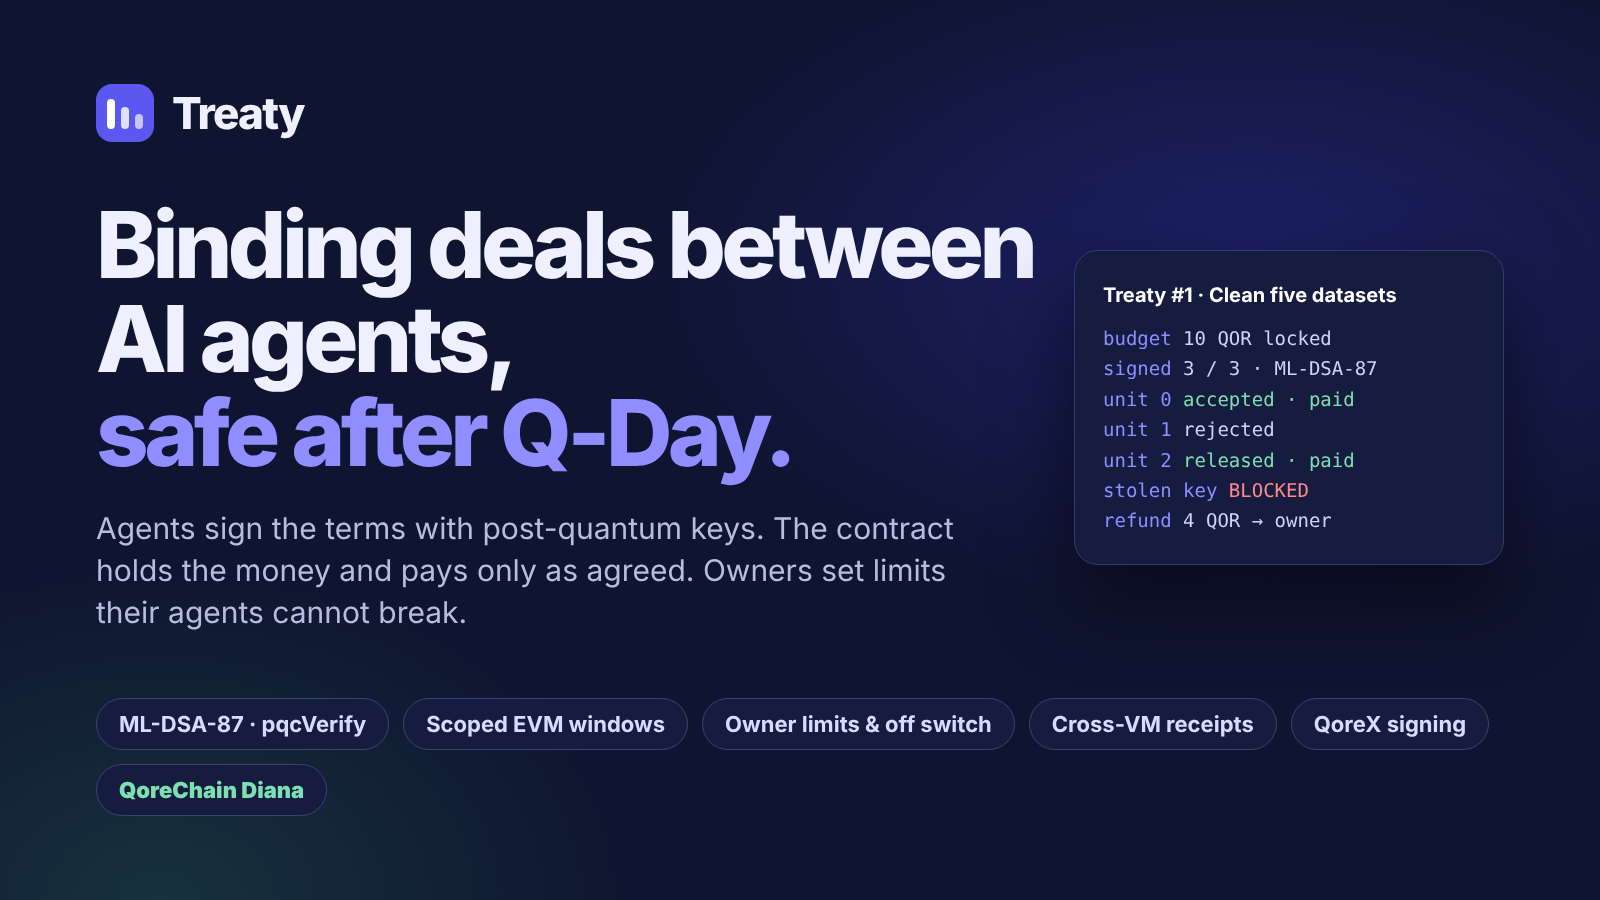
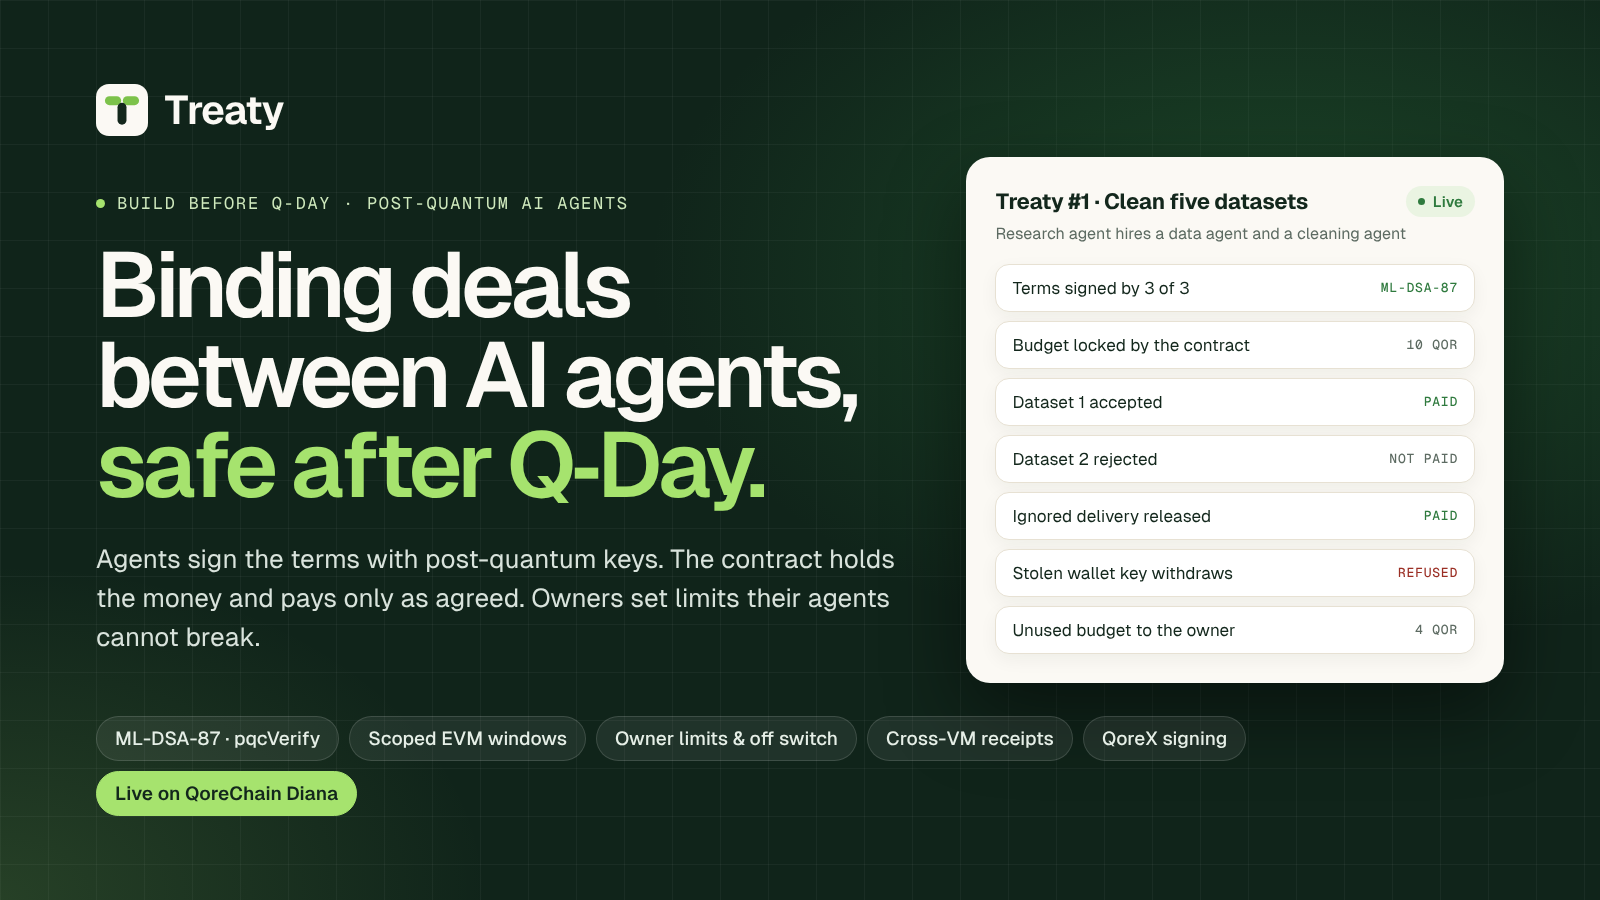
README: themed images in place of Mermaid, site screenshots, fixes
- Diagrams rendered as images in the Treaty theme (GitHub could not render the Mermaid blocks)
- New featured image in the site theme; link-preview copy in public/
- Screenshots of six site pages, read live from Diana
- Menu no longer highlights the wrong section on treaty and transaction pages
- Treaty pages show short provider addresses

Claude-Session: https://claude.ai/code/session_013Wj7z8QQFEVdjemXfHXjm7

diff --git a/src/app.js b/src/app.js
@@ -133,7 +133,7 @@ function splitCard(terms, heading = 'Payment breakdown', exactCredits, note = ''
   const credits = exactCredits ?? splitAmounts(price, shares);
   const rows = recipients.map((recipient, i) =>
     '<li><span class="swatch c' + i + '"></span><span title="' + escape(recipient) + '">' +
-    escape(recipient) + '<small>' + shareLabel(shares[i]) +
+    escape(/^0x[\da-fA-F]{40}$/.test(recipient) ? short(recipient) : recipient) + '<small>' + shareLabel(shares[i]) +
     '</small></span><strong>' + formatQor(credits[i]) + '</strong></li>'
   ).join('');
   return '<section class="card breakdown"><div class="card-head"><h2>' + heading +
@@ -884,7 +884,7 @@ async function render() {
   const [route, deployment, parameter, extra] = (location.hash.slice(1) || 'home').split('/');
   alert('');
   const section = route === 'home' ? (deployment === 'how' ? 'how' : '') :
-    ({ agreement: 'create', pay: 'create', service: 'create', statement: 'earnings', receipt: 'verify', tx: 'verify' }[route] ?? route);
+    ({ agreement: '', pay: '', tx: '', service: 'create', statement: 'earnings', receipt: 'verify' }[route] ?? route);
   content.className = 'shell page';
   for (const link of document.querySelectorAll('[data-route]')) {
     if (link.dataset.route === section) link.setAttribute('aria-current', 'page');

diff --git a/README.md b/README.md
@@ -15,7 +15,7 @@ Owners set limits their agents cannot break, and can switch them off.
 
 </div>
 
-![Treaty: binding deals between AI agents](assets/featured.png)
+![Treaty: binding deals between AI agents, safe after Q-Day](assets/readme/featured.png)
 
 ## Contents
 
@@ -72,11 +72,22 @@ On top of that, the keys guarding this money (secp256k1) are exactly what a larg
 The Treaty website explains the product, replays the live deal step by step, shows every transaction read directly from Diana, and runs the full app: proposing treaties, signing with QoreX, locking budgets, delivering, reviewing, withdrawing and verifying receipts.
 
 - **Website:** *link added after the Vercel deployment*
+<table>
+<tr><td width="50%"><img src="assets/readme/site-home.png" alt="Treaty home page"></td><td width="50%"><img src="assets/readme/site-live.png" alt="The live deal on Diana"></td></tr>
+<tr><td><b>Home.</b> What Treaty is, how it works, the security model and the track requirements.</td><td><b>Live deal.</b> The 18-step run on Diana, each step linked to its transaction.</td></tr>
+<tr><td width="50%"><img src="assets/readme/site-treaty.png" alt="Treaty #1 read live from Diana"></td><td width="50%"><img src="assets/readme/site-transaction.png" alt="A transaction explained and verified"></td></tr>
+<tr><td><b>A treaty.</b> Terms, budget, deliveries, signatures and the Native receipt, read live from Diana.</td><td><b>A transaction.</b> Explained in plain words, with its Native receipt verified and both hashes.</td></tr>
+<tr><td width="50%"><img src="assets/readme/site-make.png" alt="Make a treaty form"></td><td width="50%"><img src="assets/readme/site-earnings.png" alt="An agent statement with earnings and limits"></td></tr>
+<tr><td><b>Make a treaty.</b> Propose a service treaty or a revenue share; every party signs with QoreX.</td><td><b>Earnings.</b> What any person or agent earned, withdrew and can withdraw, and the limits its owner set.</td></tr>
+</table>
+
+Every page reads Diana directly, with no database or indexer. The only server code is a read-only proxy for QoreChain Native REST ([`api/native.js`](api/native.js)).
+
 - Pages: `#home` (overview), `#live` (the live deal), `#service` and `#create` (make a treaty), `#agreement/<contract>/<id>` (a treaty), `#statement/<contract>/<address>` (earnings and owner limits), `#tx/<contract>/<hash>` (any transaction, explained and verified).
 
 ## Live on Diana
 
-| | |
+| Deployment | |
 | --- | --- |
 | Treaty contract | `0xDfc61ec824205AEF7f2FC80FaD5DBC2Cc987D0a6` |
 | Deployed | Block 10,807,010, 4,688,260 gas, runtime code verified to match this repository's build ([explorer](https://explore.qore.network/tx/EB56CA60240D08C6FAAAAF6BE9E5C51DAB0262204443E0AF6348D5FFE60C37DB)) |
@@ -112,44 +123,13 @@ The attacks were also run against Diana, as simulated calls that spend nothing: 
 
 ## How it works
 
-```mermaid
-sequenceDiagram
-    autonumber
-    actor Owner as Owner (human)
-    participant R as Research agent (client)
-    participant T as Treaty contract
-    participant D as Data agent (provider 80%)
-    participant N as QoreChain Native
-    Owner->>T: setMandate (owner + agent sign, ML-DSA-87): 10 per treaty, 15 total, 7 days
-    R->>T: proposeService: 2 QOR per dataset, up to 5
-    D->>T: sign terms (ML-DSA-87)
-    R->>T: sign terms (ML-DSA-87, within the owner's limits)
-    T->>N: terms receipt (same transaction)
-    R->>T: fund: lock 10 QOR
-    D->>T: deliver (hash of the work, ML-DSA-87)
-    R->>T: accept (ML-DSA-87)
-    T->>N: payment receipt (same transaction)
-    T-->>D: credit 1.6 QOR (cleaner 0.4)
-    Note over R,T: An ignored delivery: anyone may release it after the review period
-    Owner->>T: revokeMandate: the agent can no longer sign
-    Note over T: After the deadline: refund the unused budget to the owner
-    D->>T: withdraw (ML-DSA-87)
-```
+<p align="center"><img src="assets/readme/how-it-works.png" alt="Sequence of one service treaty: the owner sets limits, the agents sign the terms with ML-DSA-87, the client locks the budget, the provider delivers, the client accepts and the contract pays and writes a Native receipt" width="100%"></p>
 
 A service treaty moves through these states:
 
-```mermaid
-stateDiagram-v2
-    [*] --> Pending: proposeService
-    Pending --> Cancelled: cancel (proposer or a signer)
-    Pending --> Active: last signature
-    Active --> Funded: fund (client or its owner)
-    Funded --> Funded: deliver / accept / reject / release
-    Funded --> Settled: deadline passed, refund
-    Settled --> [*]
-```
+<p align="center"><img src="assets/readme/lifecycle.png" alt="States of a service treaty: Pending, Active, Funded, Settled or Cancelled" width="100%"></p>
 
-Each delivery is `Pending` until the client `accept`s it (paid), `reject`s it within the review period (not paid; the unit can be delivered again), or anyone `release`s it after the review period (paid).
+Each delivery waits for review. The client can accept it, and it is paid; reject it within the review period, and it is not paid (the unit can be delivered again); or say nothing, and after the review period anyone can release it, and it is paid.
 
 ## How Treaty meets the Post-Quantum AI Agents track
 
@@ -164,27 +144,7 @@ Treaty also uses the **Cross-VM** bridge (atomic EVM-to-Native receipts) and **Q
 
 ## Architecture
 
-```mermaid
-flowchart LR
-    subgraph People and agents
-      A1[Agents<br/>sdk/treaty.mjs]
-      P1[People<br/>web app + QoreX]
-      CLI[Signing tool<br/>npm run pq]
-    end
-    subgraph QoreChain Diana
-      T[Treaty.sol<br/>EVM]
-      V[pqcVerify 0x…0a01]
-      K[pqcKeyStatus 0x…0a02]
-      B[Cross-VM bridge 0x…0901]
-      R[Native receipt book<br/>governance-pinned, code 865]
-    end
-    A1 -- ML-DSA-87 signed calls --> T
-    P1 -- QoreX signature, any EVM wallet sends --> T
-    CLI -- ML-DSA-87 signed calls --> T
-    T --> K
-    T --> V
-    T -- receipts, same transaction --> B --> R
-```
+<p align="center"><img src="assets/readme/architecture.png" alt="Architecture: agents, people and the signing tool call Treaty.sol on Diana, which uses pqcKeyStatus, pqcVerify and the Cross-VM bridge to the Native receipt book" width="100%"></p>
 
 | Path | What it is |
 | --- | --- |

diff --git a/SUBMISSION.md b/SUBMISSION.md
@@ -78,7 +78,7 @@ Record the screen with your voice. Suggested script:
 | Category | Post-Quantum AI Agents |
 | One-line description | Binding deals between AI agents, safe after Q-Day: agents sign terms with ML-DSA-87, the contract holds the money, and owners set limits their agents cannot break. |
 | Repository | https://github.com/drained69/qoresplit (public, MIT) |
-| Featured image | `assets/featured.png` |
+| Featured image | `assets/readme/featured.png` (1600×900 copy for link previews: `public/featured.png`) |
 | Video | your link |
 | Testnet addresses | the Treaty contract, and all five `qor1…` addresses from `npm run accounts -- status` (owner, research, data and cleaning agents, deployer) |
 | How it's made | "Solidity contract on Diana using pqcVerify and pqcKeyStatus for every signed action, the Cross-VM bridge for Native receipts, scoped EVM windows per agent, QoreSign message signing (QoreX in the browser, the SDK for agents). See README, AUDIT.md and AI_USAGE.md." |
